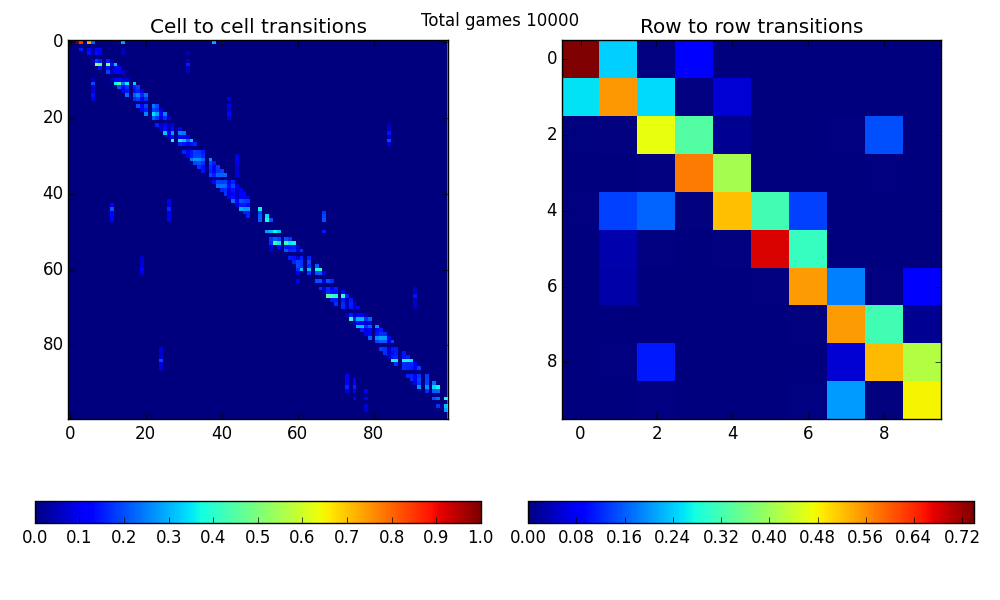
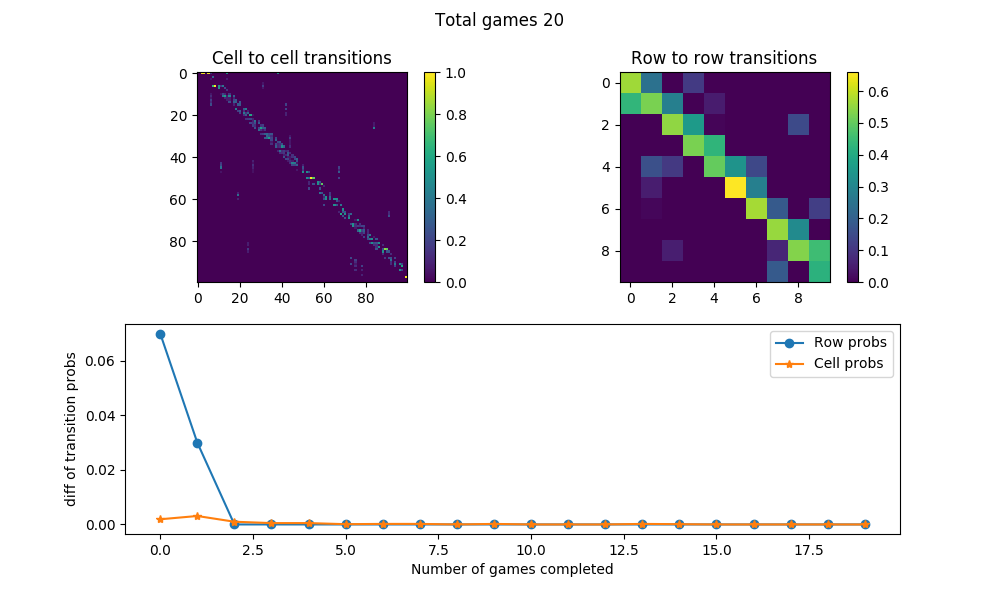
Fixed.
Former-commit-id: 9926020e6af12b66e291f76f332eed360788b3b6
Former-commit-id: 1a1331909ff07c23232f128124438fdd66ab855d

diff --git a/StochasticProcess2017/Assignment2/snake_and_ladder.py b/StochasticProcess2017/Assignment2/snake_and_ladder.py
@@ -39,9 +39,23 @@ def check_for_snakes_and_ladders(n):
 def roll_dice( ):
     return random.randint(1, 6)
 
+def renormalize( img ):
+    with np.errstate(divide='ignore', invalid='ignore'):
+        img = np.true_divide(img, img.sum( axis = 0 ) )
+        img = np.nan_to_num( img )
+    return img
+
+def drawNow( img, title = 'Image' ):
+    import cv2 as cv
+    cv.imshow( title, img )
+    cv.waitKey( 100 )
+
 def main( ):
     global loc_
-    nGames = 10000
+    nGames = 20
+    prevRows, prevCells = np.zeros( shape=(10,10) ), np.zeros( shape=(100,100))
+    cellTransitionProbMean = [ ]
+    rowTransitionProbMean = [ ]
     for i in range( nGames ):
         loc_ = 0
         while True:
@@ -53,9 +67,18 @@ def main( ):
                 cells_[c1,c2] += 1.0
                 rows_[r1,r2] += 1.0
             if loc_ > 100:
-                print( "Won" )
+                print( "Game %d is over" % i )
                 loc_ = 0
+                thisRows = renormalize( rows_ )
+                thisCells = renormalize( cells_ )
+                diffRow = thisRows - prevRows
+                diffCell = thisCells - prevCells
+                rowTransitionProbMean.append( diffRow.mean( ) )
+                cellTransitionProbMean.append( diffCell.mean( ) )
+                prevRows, prevCells = thisRows, thisCells
+                # drawNow( img )
                 break
+                
 
     pCells = cells_ / cells_.sum( axis = 0 )
     pRows = rows_ / rows_.sum( axis = 0 )
@@ -65,16 +88,26 @@ def main( ):
         pCells = np.nan_to_num( pCells )
         pRows = np.nan_to_num( pRows )
     pylab.figure( figsize=(10,6) )
-    pylab.subplot( 121 )
-    pylab.title( 'Cell to cell transitions' )
-    pylab.imshow( pCells, interpolation = 'none' )
-    pylab.colorbar( orientation = 'horizontal' )
-    pylab.subplot( 122 )
-    pylab.imshow( pRows, interpolation = 'none' )
-    pylab.colorbar( orientation = 'horizontal' )
-    pylab.title( 'Row to row transitions' )
+
+    gridSize = (2, 2)
+    ax1 = pylab.subplot2grid( gridSize, (0,0), colspan = 1 )
+    ax2 = pylab.subplot2grid( gridSize, (0,1), colspan = 1 )
+    ax3 = pylab.subplot2grid( gridSize, (1,0), colspan = 2 )
+    ax1.set_title( 'Cell to cell transitions' )
+    img1 = ax1.imshow( pCells, interpolation = 'none' )
+    pylab.colorbar( img1, ax = ax1 ) #orientation = 'horizontal' )
+    img2 = ax2.imshow( pRows, interpolation = 'none' )
+    pylab.colorbar( img2, ax = ax2 ) # orientation = 'horizontal' )
+    ax2.set_title( 'Row to row transitions' )
+
+    ax3.plot( rowTransitionProbMean, '-o', label = 'Row probs' )
+    ax3.plot( cellTransitionProbMean, '-*', label = 'Cell probs' )
+    ax3.set_ylabel( 'diff of transition probs'  )
+    ax3.set_xlabel( 'Number of games completed' )
+    ax3.legend( )
+
     pylab.suptitle( 'Total games %d' % nGames )
-    pylab.tight_layout( )
+    # pylab.tight_layout( )
     pylab.savefig( '%s.png' % sys.argv[0] )
     
 
